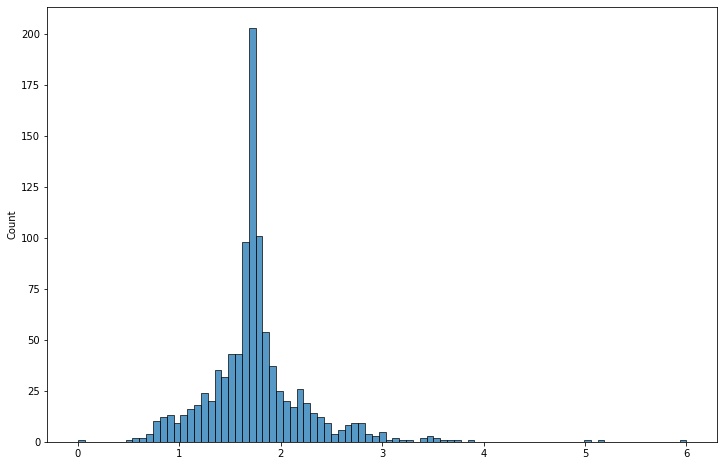
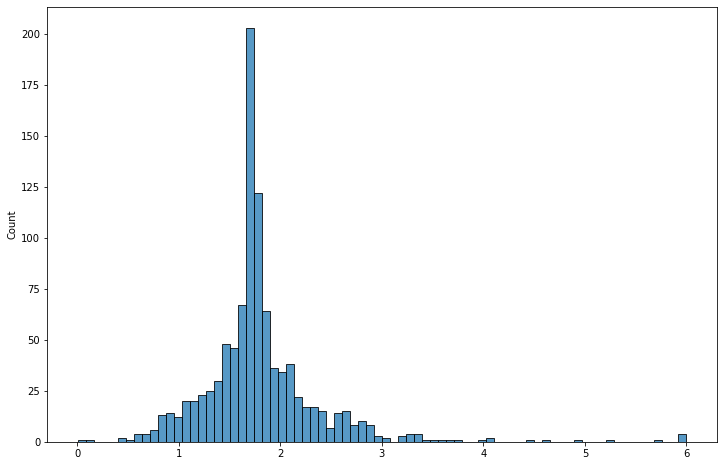
munge: prepare gene CN data and CERES output data (2020 Q3 data)

diff --git a/munge/005_prepare-depmap-data.md b/munge/005_prepare-depmap-data.md
@@ -13,8 +13,13 @@ import re
 
 
 ```python
-data_dir = Path("../data")
+data_dir = Path("../data/depmap_20q3")
 save_dir = Path("../modeling_data")
+
+if not data_dir.exists():
+    raise Exception(
+        "Data directory does not exist. Make sure to download the DepMap data."
+    )
 ```
 
 ## 'sample_info.csv'
@@ -119,7 +124,7 @@ sample_info.head()
       <td>HEL</td>
       <td>HEL_HAEMATOPOIETIC_AND_LYMPHOID_TISSUE</td>
       <td>Male</td>
-      <td>47.6</td>
+      <td>52.4</td>
       <td>NaN</td>
       <td>Leukemia</td>
       <td>Acute Myelogenous Leukemia (AML), M6 (Erythrol...</td>
@@ -132,7 +137,7 @@ sample_info.head()
       <td>HEL9217</td>
       <td>HEL9217_HAEMATOPOIETIC_AND_LYMPHOID_TISSUE</td>
       <td>Male</td>
-      <td>13.4</td>
+      <td>86.6</td>
       <td>NaN</td>
       <td>Leukemia</td>
       <td>Acute Myelogenous Leukemia (AML), M6 (Erythrol...</td>
@@ -388,36 +393,36 @@ achilles_replicate_map.head()
   <tbody>
     <tr>
       <th>0</th>
-      <td>pacadd188-311cas9_repb_p6_batch3</td>
-      <td>ACH-001382</td>
-      <td>3</td>
+      <td>pe_ca-pj-34clone c12-311cas9_repb_p5_batch2</td>
+      <td>ACH-000606</td>
+      <td>2</td>
       <td>True</td>
     </tr>
     <tr>
       <th>1</th>
-      <td>kmrc20-311cas9_repa_p6_batch3</td>
-      <td>ACH-000250</td>
+      <td>nci-h1944-311cas9 rep c p5_batch3</td>
+      <td>ACH-000414</td>
       <td>3</td>
       <td>True</td>
     </tr>
     <tr>
       <th>2</th>
-      <td>253j-311cas9_repa_p5_batch3</td>
-      <td>ACH-000011</td>
-      <td>3</td>
+      <td>mdamb231-311cas9_repb_p5_batch2</td>
+      <td>ACH-000768</td>
+      <td>2</td>
       <td>True</td>
     </tr>
     <tr>
       <th>3</th>
-      <td>ocug1-311cas9-repb-p6_batch3</td>
-      <td>ACH-001619</td>
+      <td>skrc20-311cas9_repa_p6_batch3</td>
+      <td>ACH-000385</td>
       <td>3</td>
       <td>True</td>
     </tr>
     <tr>
       <th>4</th>
-      <td>raji-311cas9_repb_p6_batch3</td>
-      <td>ACH-000654</td>
+      <td>skpndw-311cas9_repb_p6_batch3</td>
+      <td>ACH-001193</td>
       <td>3</td>
       <td>True</td>
     </tr>
@@ -447,7 +452,7 @@ len(np.unique(achilles_replicate_map.replicate_id))
 
 
 
-    1638
+    1759
 
 
 
@@ -459,7 +464,7 @@ np.round(np.mean(achilles_replicate_map.passes_qc), 3)
 
 
 
-    0.996
+    0.948
 
 
 
@@ -587,7 +592,7 @@ achilles_logfold_change.shape
 
 
 
-    (121067627, 6)
+    (123756359, 6)
 
 
 
@@ -2047,10 +2052,15 @@ plt.show()
 ```
 
 
-    
-![png](005_prepare-depmap-data_files/005_prepare-depmap-data_44_0.png)
-    
 
+![png](005_prepare-depmap-data_files/005_prepare-depmap-data_44_0.png)
+
+
+
+
+```python
+ccle_gene_cn.to_csv(save_dir / "ccle_gene_cn.csv", index=False)
+```
 
 ## 'CCLE_fusions.csv'
 
@@ -2238,7 +2248,7 @@ ccle_fusions.to_csv(save_dir / "ccle_fusions.csv", index=False)
 
 ```python
 ccle_expression = (
-    pd.read_csv(data_dir / "CCLE_expression_full_v2.csv")
+    pd.read_csv(data_dir / "CCLE_expression_full.csv")
     .rename({"Unnamed: 0": "depmap_id"}, axis=1)
     .melt(id_vars="depmap_id", var_name="hugo_symbol", value_name="rna_expr")
     .assign(hugo_symbol=lambda x: [a.split(" ")[0] for a in x.hugo_symbol])
@@ -2313,4 +2323,115 @@ ccle_expression.head()
 
 ```python
 ccle_expression.to_csv(save_dir / "ccle_expression.csv", index=False)
+```
+
+## 'Achilles_gene_effect.csv' & 'Achilles_gene_effect_unscaled.csv'
+
+
+```python
+def prep_gene_effect_data(fpath, col_name):
+    d = (
+        pd.read_csv(fpath)
+        .rename({"DepMap_ID": "depmap_id"}, axis=1)
+        .melt(id_vars="depmap_id", var_name="hugo_symbol", value_name=col_name)
+        .assign(hugo_symbol=lambda x: [a.split(" ")[0] for a in x.hugo_symbol])
+    )
+    return d
+
+
+gene_effect_scaled = prep_gene_effect_data(
+    data_dir / "Achilles_gene_effect.csv", "gene_effect"
+)
+gene_effect_unscaled = prep_gene_effect_data(
+    data_dir / "Achilles_gene_effect_unscaled.csv", "gene_effect_unscaled"
+)
+
+# Check that the two data frames are the same shape.
+if not gene_effect_scaled.shape == gene_effect_unscaled.shape:
+    raise Exception("Gene effect data frames are not the same shape as expected.")
+
+gene_effect = pd.merge(
+    gene_effect_scaled, gene_effect_unscaled, on=["depmap_id", "hugo_symbol"]
+)
+
+gene_effect.head()
+```
+
+
+
+
+<div>
+<style scoped>
+    .dataframe tbody tr th:only-of-type {
+        vertical-align: middle;
+    }
+
+    .dataframe tbody tr th {
+        vertical-align: top;
+    }
+
+    .dataframe thead th {
+        text-align: right;
+    }
+</style>
+<table border="1" class="dataframe">
+  <thead>
+    <tr style="text-align: right;">
+      <th></th>
+      <th>depmap_id</th>
+      <th>hugo_symbol</th>
+      <th>gene_effect</th>
+      <th>gene_effect_unscaled</th>
+    </tr>
+  </thead>
+  <tbody>
+    <tr>
+      <th>0</th>
+      <td>ACH-000004</td>
+      <td>A1BG</td>
+      <td>0.181037</td>
+      <td>0.542787</td>
+    </tr>
+    <tr>
+      <th>1</th>
+      <td>ACH-000005</td>
+      <td>A1BG</td>
+      <td>-0.090250</td>
+      <td>0.440018</td>
+    </tr>
+    <tr>
+      <th>2</th>
+      <td>ACH-000007</td>
+      <td>A1BG</td>
+      <td>0.071568</td>
+      <td>0.104889</td>
+    </tr>
+    <tr>
+      <th>3</th>
+      <td>ACH-000009</td>
+      <td>A1BG</td>
+      <td>0.110311</td>
+      <td>0.478258</td>
+    </tr>
+    <tr>
+      <th>4</th>
+      <td>ACH-000011</td>
+      <td>A1BG</td>
+      <td>0.275160</td>
+      <td>0.589944</td>
+    </tr>
+  </tbody>
+</table>
+</div>
+
+
+
+
+```python
+gene_effect.to_csv(save_dir / "achilles_gene_effect.csv", index=False)
+```
+
+
+```python
+
 ```
